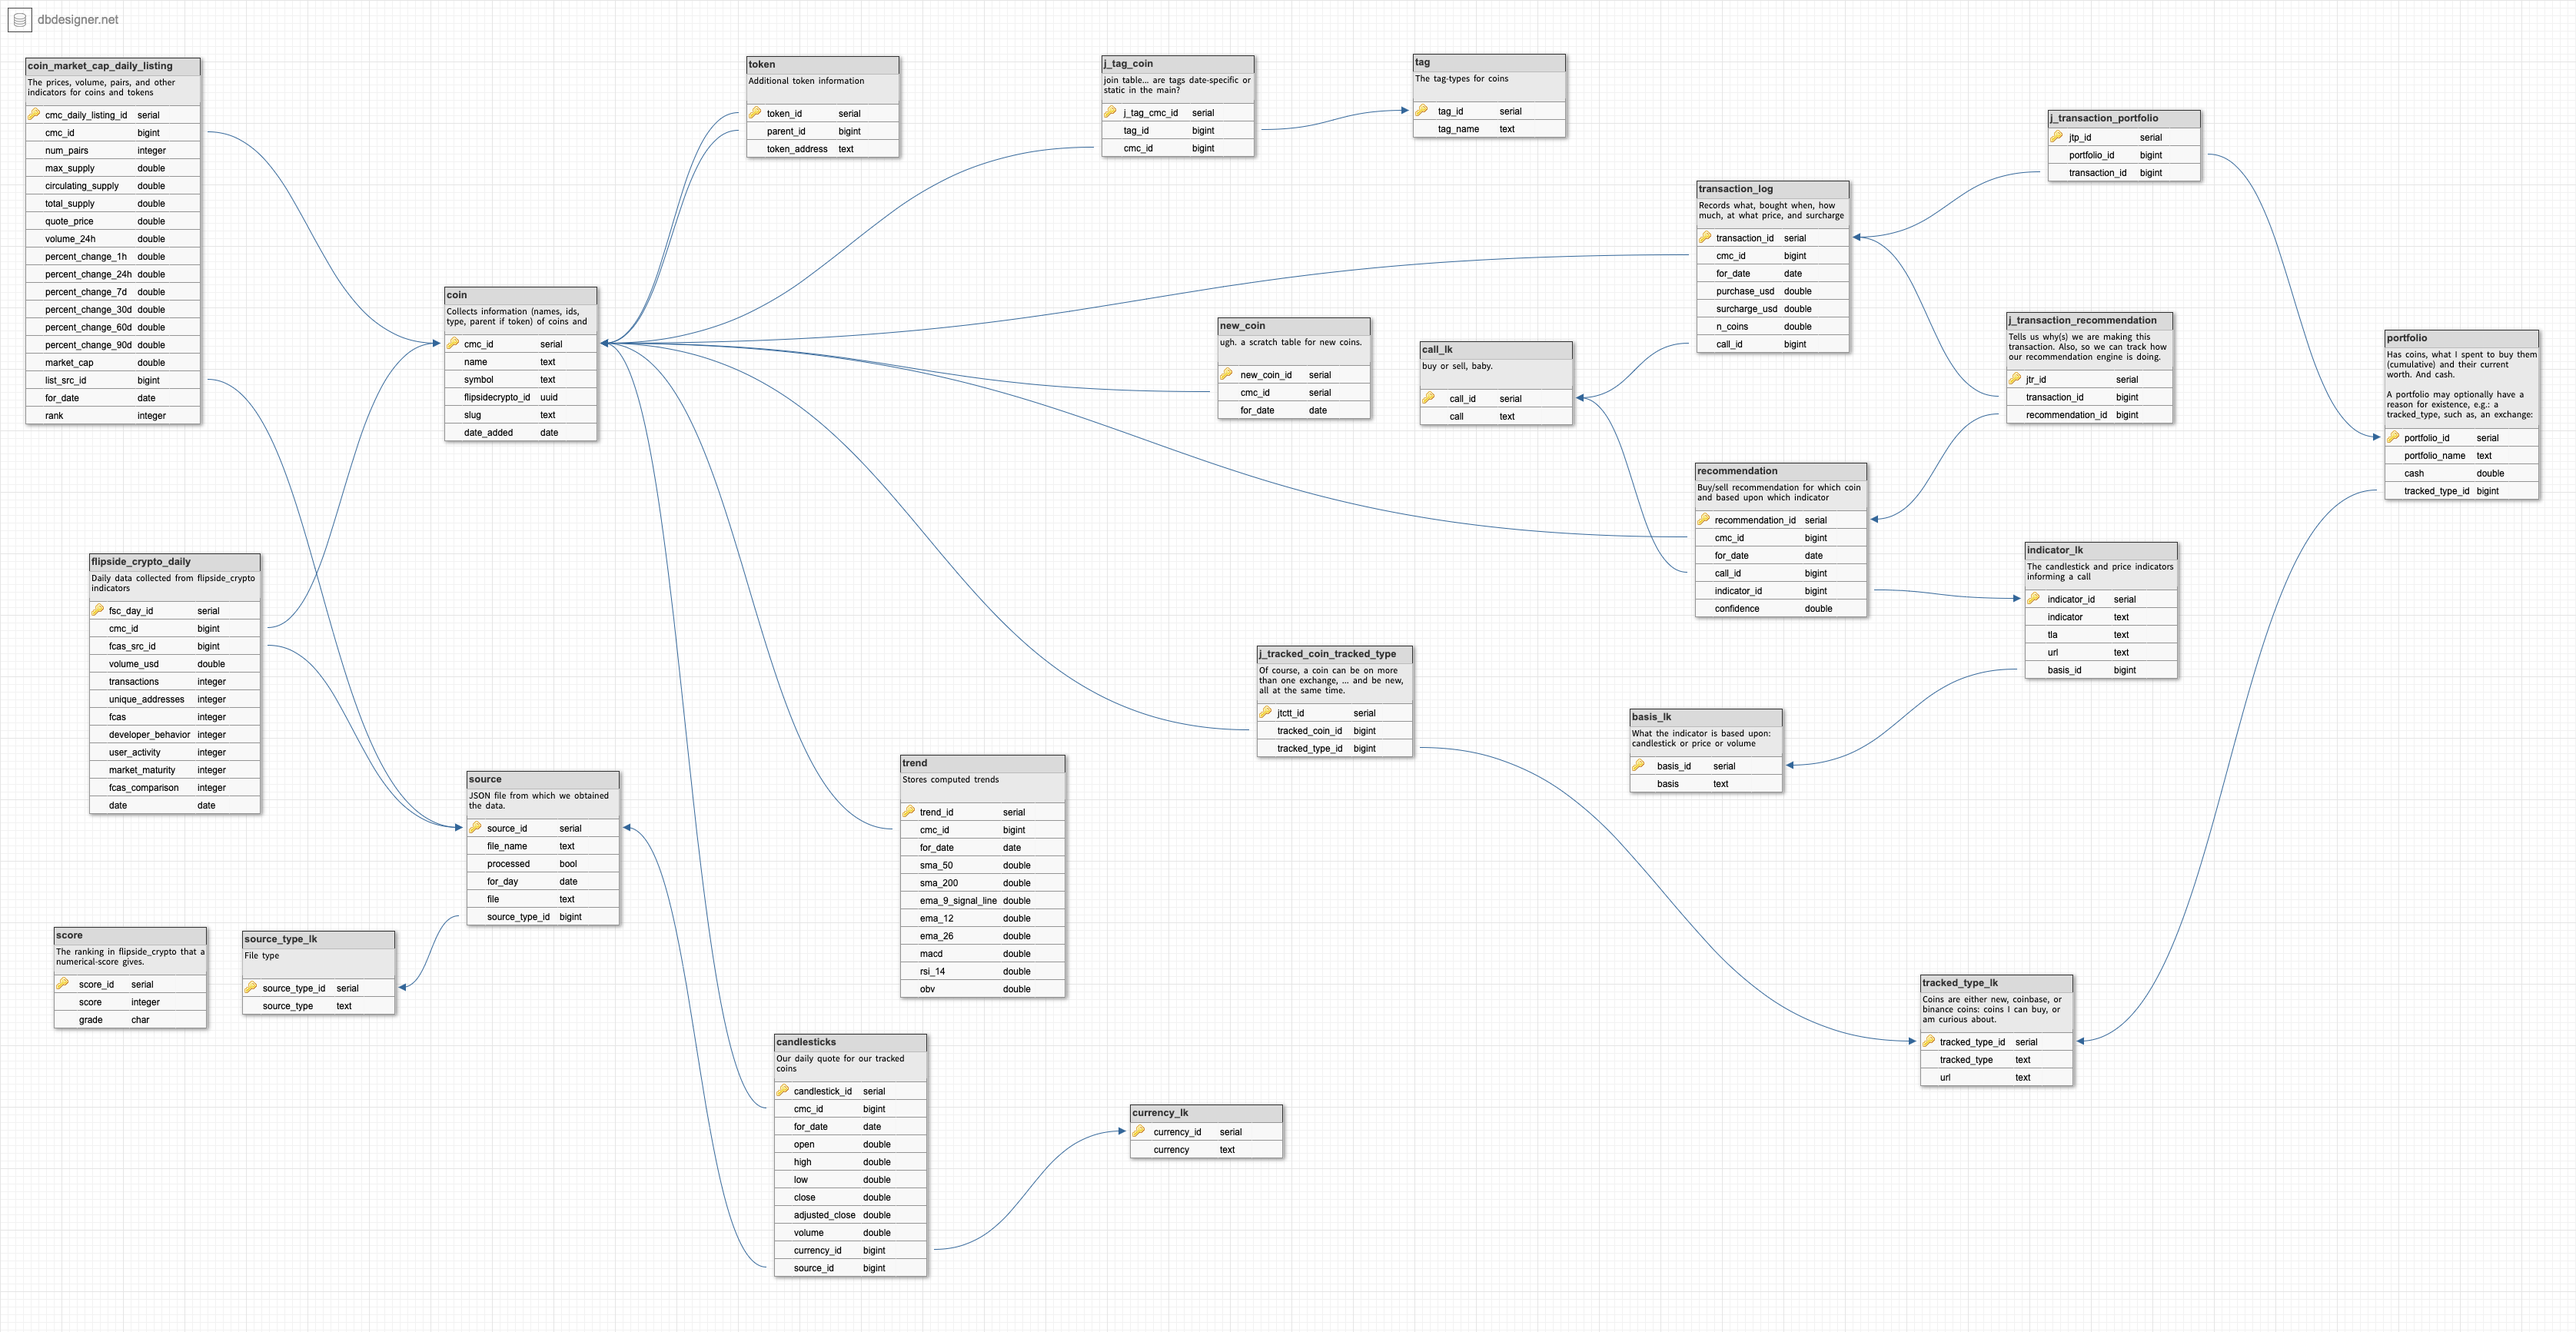
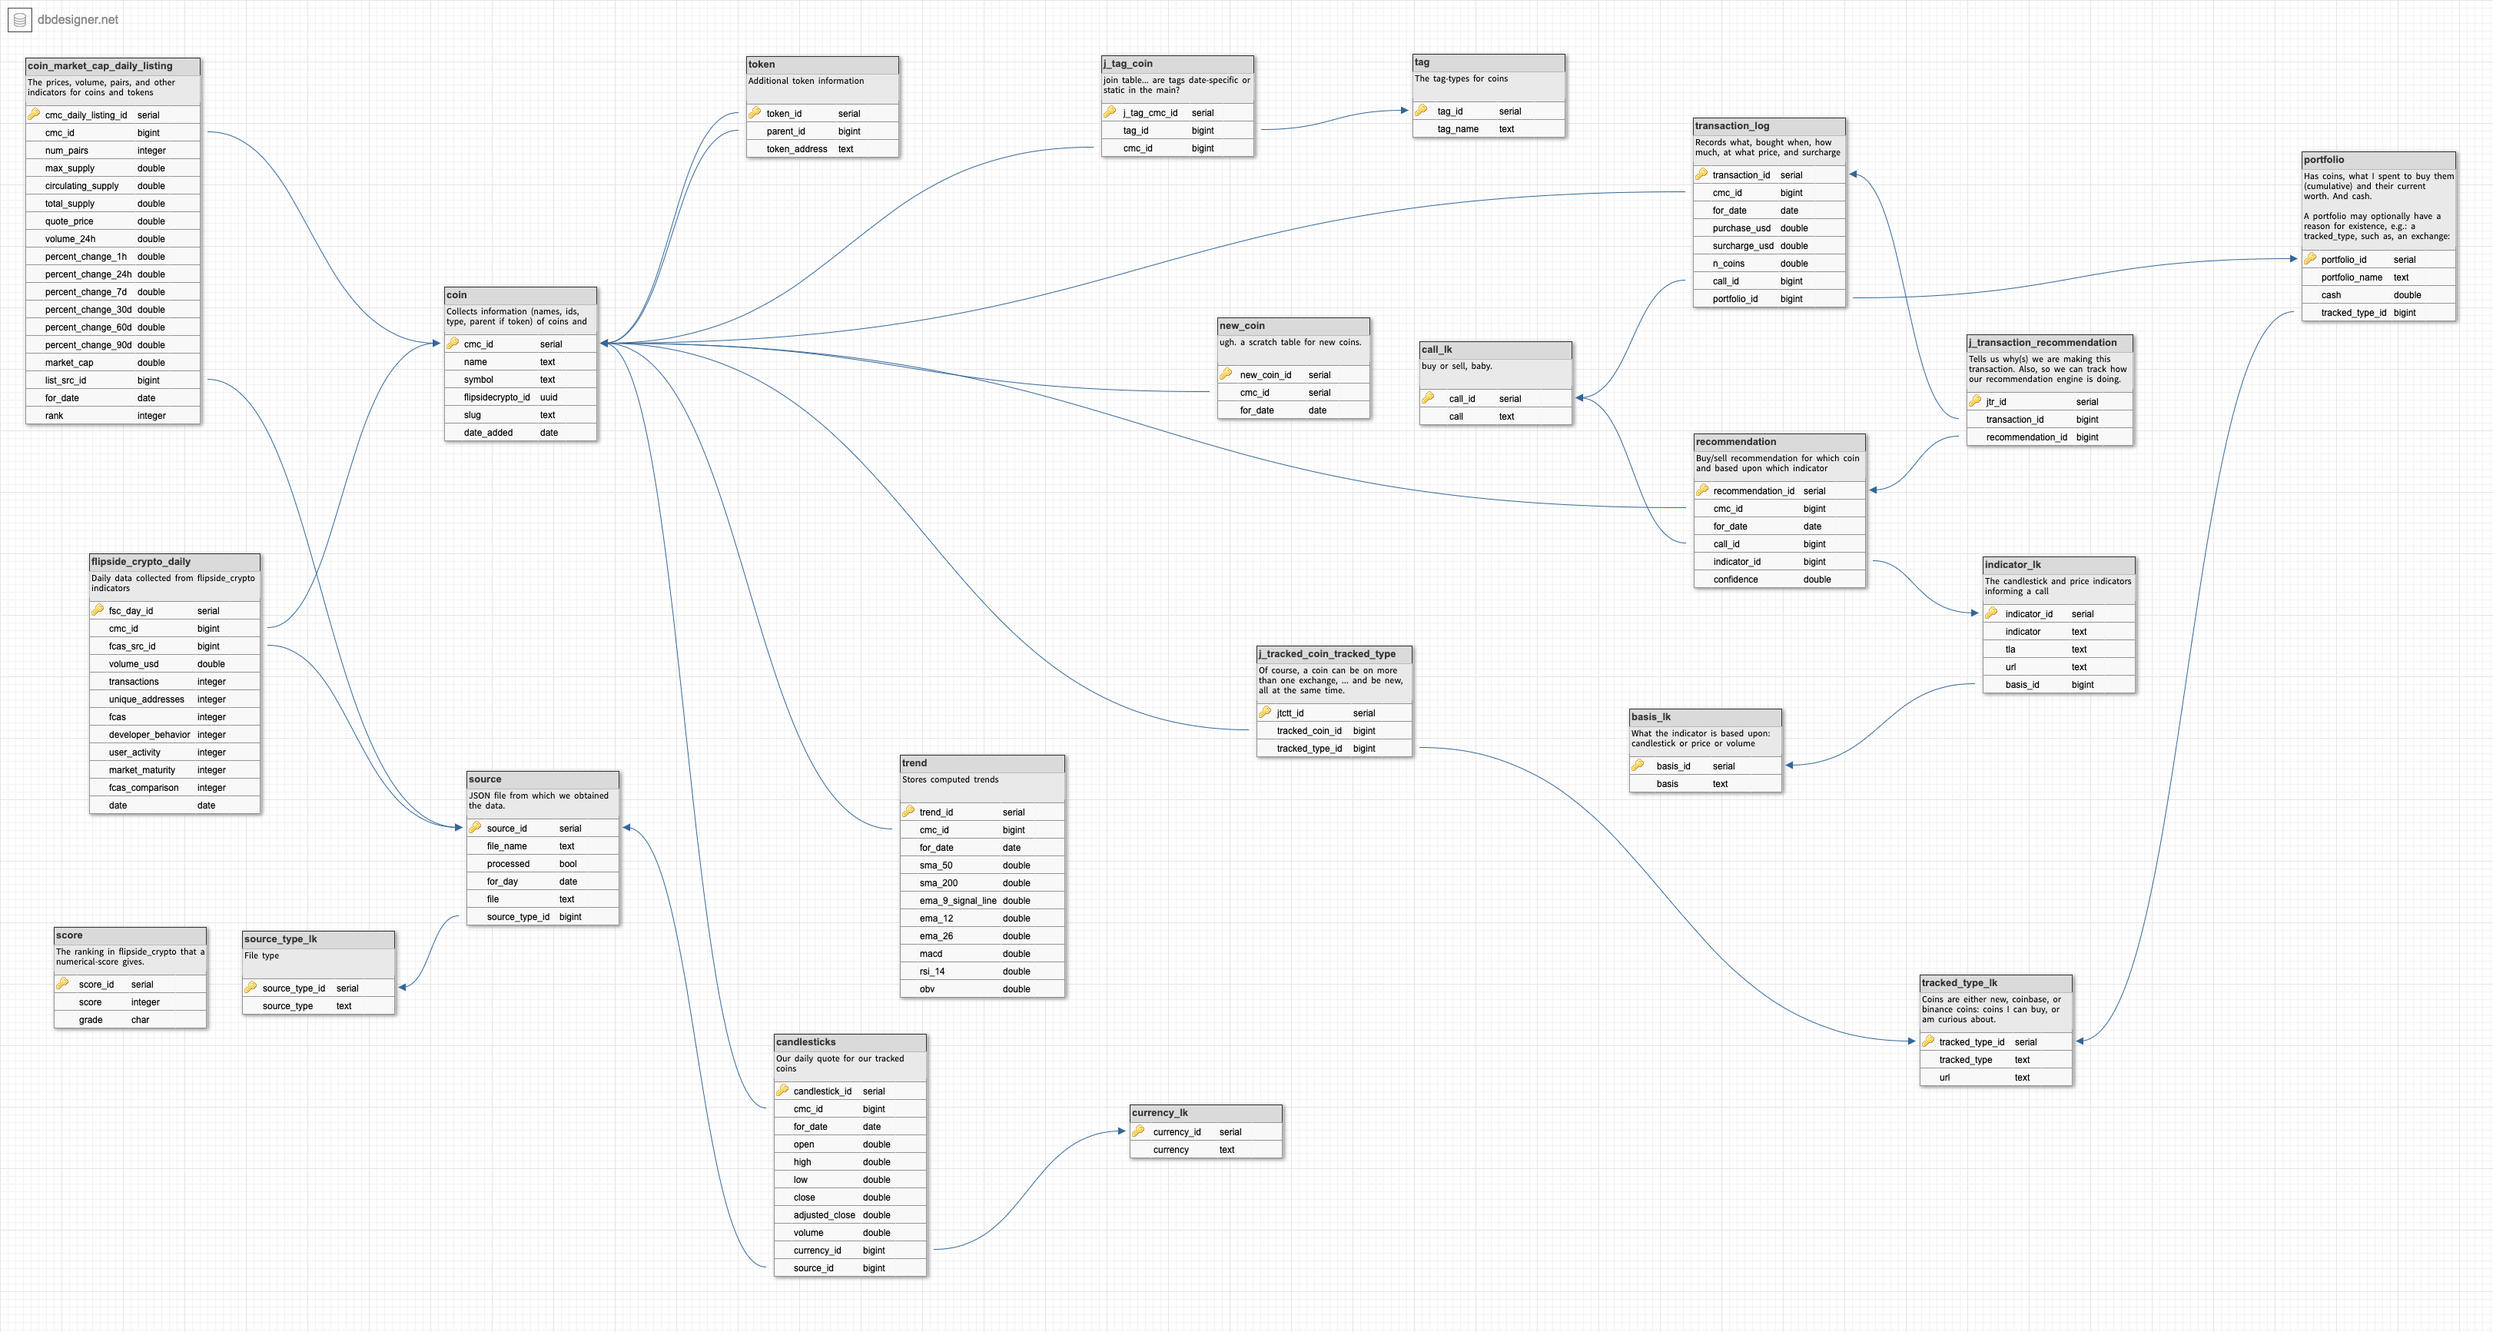
Added types and database interactions for transactions in a portfolio, linking the transactions to the recommendations that prompted them.

diff --git a/README.md b/README.md
@@ -109,14 +109,7 @@ okay. wut.
 
 * true pipeline with jobs starting on the signal of a job's completion.
 
-* finish recommendations.
-
 * represent coins-as-graph
-
-* complete candlestick computations
-  * Three Black Crows: done!
-  * Abandoned Baby: done!
-  * Evening Star: done!
 
 * create a spot-check that runs the numbers on any arbitrary yahoo-symbol
 
@@ -124,8 +117,11 @@ okay. wut.
 * download FCAS scores: ... once we have cmc_id-to-flipside_crypto_uuid mapping
   * map FCAS coin uuids to cmc_ids
 
-* create a portfolio: positions held, money invested, current value
-* create a transaction history (you know, for tax purposes)
+* create a portfolio: positions held, money invested, current value: IN PROGRESS
+* create a transaction history (you know, for tax purposes): IN PROGRESS
+
+* convert `(-|)` to `:: Bool -> a -> Maybe a`
+* add `(=|) :: Maybe Bool -> a -> Maybe a`
 
 * get FCAS data for monitored coins
 
